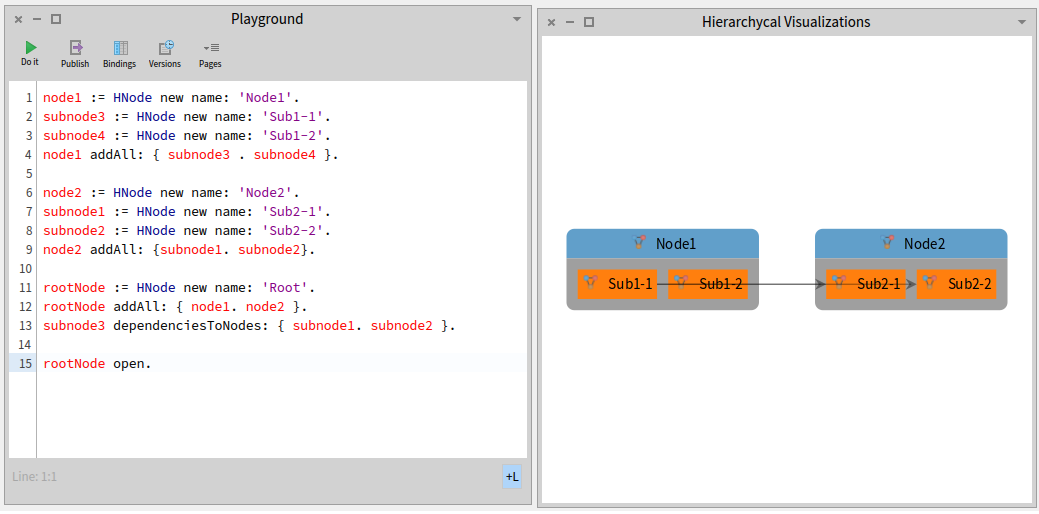
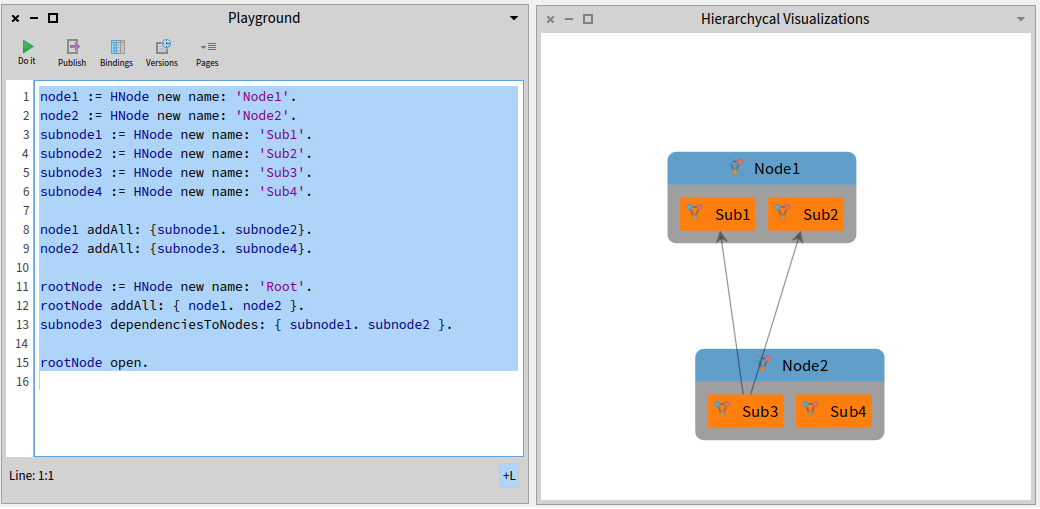
update readme with new basic script

diff --git a/README.md b/README.md
@@ -18,20 +18,21 @@ Execute the following code snippet in a Playground:
 Consider the following code snippet:
 ```Smalltalk
 node1 := HNode new name: 'Node1'.
-subnode3 := HNode new name: 'Sub1-1'.
-subnode4 := HNode new name: 'Sub1-2'.
-node1 addAll: { subnode3 . subnode4 }.
-
 node2 := HNode new name: 'Node2'.
-subnode1 := HNode new name: 'Sub2-1'.
-subnode2 := HNode new name: 'Sub2-2'.
-node2 addAll: {subnode1. subnode2}.
+subnode1 := HNode new name: 'Sub1'.
+subnode2 := HNode new name: 'Sub2'.
+subnode3 := HNode new name: 'Sub3'.
+subnode4 := HNode new name: 'Sub4'.
+
+node1 addAll: {subnode1. subnode2}.
+node2 addAll: {subnode3. subnode4}.
 	
 rootNode := HNode new name: 'Root'.
 rootNode addAll: { node1. node2 }.
 subnode3 dependenciesToNodes: { subnode1. subnode2 }.
 
 rootNode open.
+
 ```
 
 The code above defines four nodes in total, structured as a hierarchy. Executing the code should shows:
